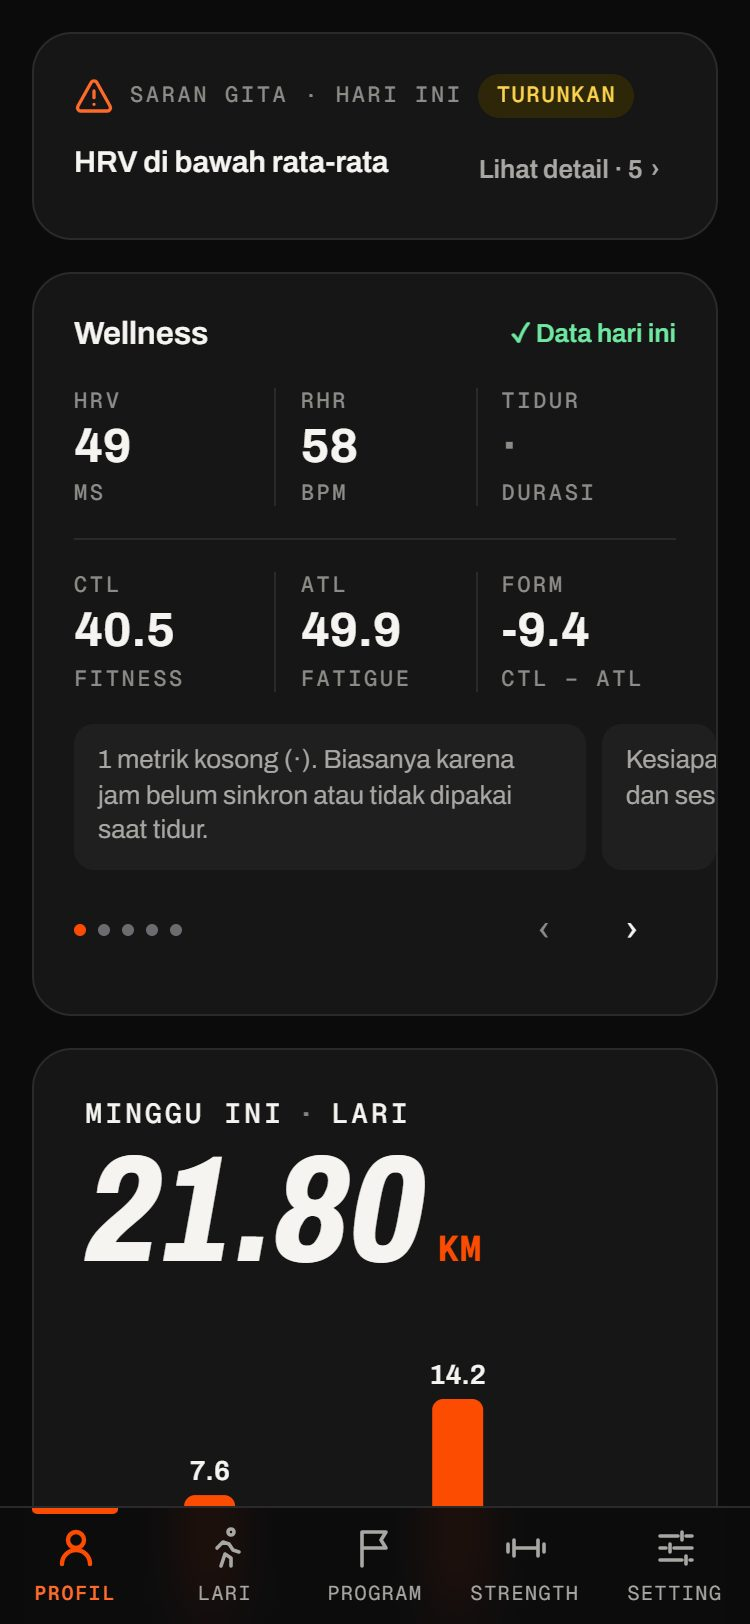
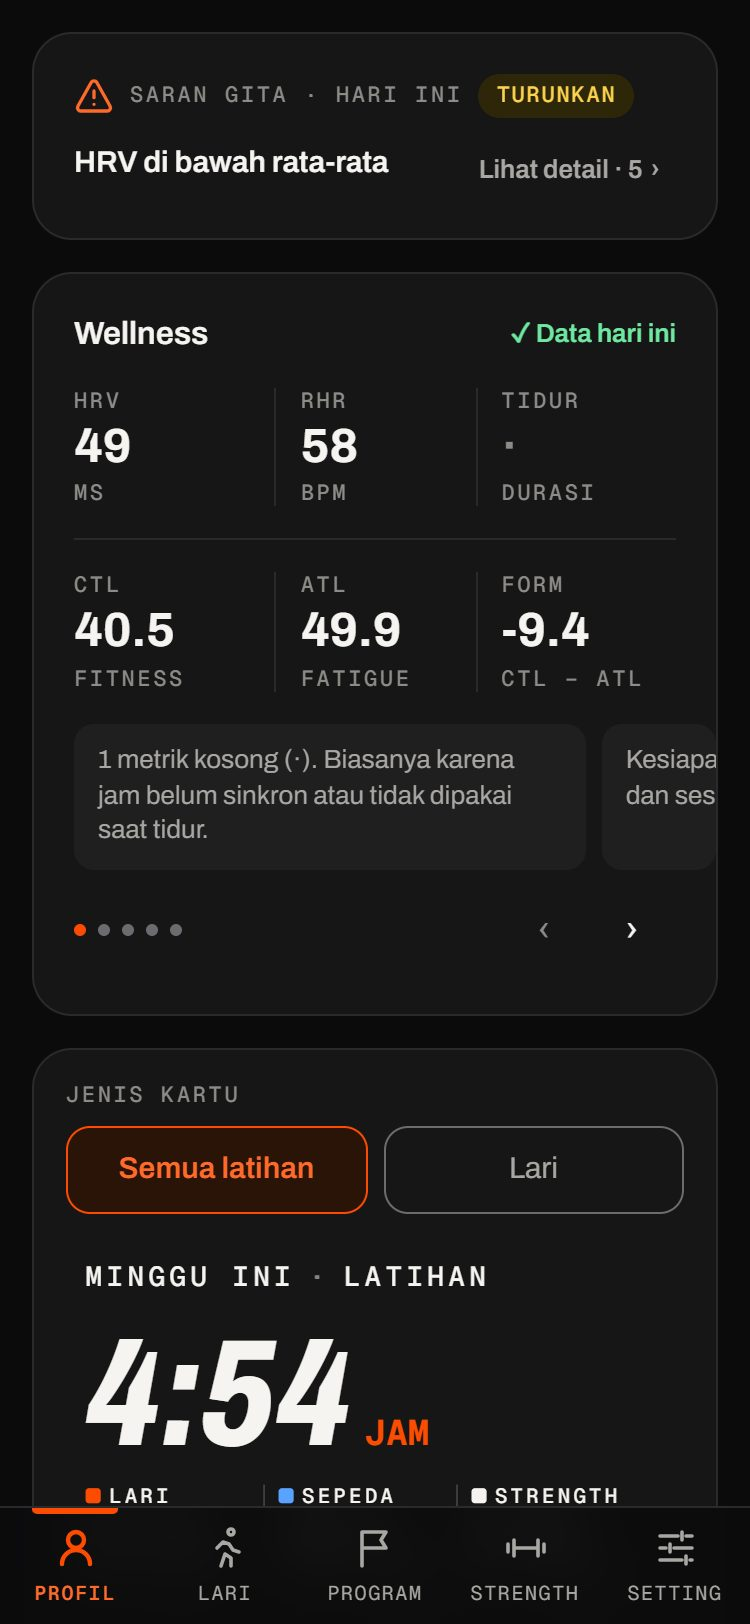
docs: release 1.3.0
Kartu "Minggu ini · latihan": PRD, DESIGN-SYSTEM (warna olahraga, arsir = indoor),
ARCHITECTURE, GUIDE, CHANGELOG, versi 1.3.0, screenshot dan video pratinjau dari Demo Mode.

diff --git a/lib/app-info.ts b/lib/app-info.ts
@@ -12,7 +12,7 @@ import { LIB_MISC } from "@/lib/i18n/messages/lib-misc";
 import { UPSTREAM_REPO } from "./env-schema";
 
 /** Tanggal rilis versi terpasang (YYYY-MM-DD). Naik bersama `version` di package.json; dijaga test terhadap CHANGELOG. */
-export const RELEASE_DATE = "2026-11-14";
+export const RELEASE_DATE = "2026-11-20";
 
 const SEMVER_RE = /^v?(\d+)\.(\d+)\.(\d+)(?:-([0-9A-Za-z.-]+))?$/;
 

diff --git a/docs/PRD.md b/docs/PRD.md
@@ -5,11 +5,11 @@
 
 | | |
 | --- | --- |
-| **Versi saat ini** | 1.2.0 (2026-11-14) · Bahasa Indonesia / English |
+| **Versi saat ini** | 1.3.0 (2026-11-20) · Kartu "Minggu ini · latihan" |
 | **Status** | Dipakai harian oleh pemilik (single user), live di Vercel |
 | **Deploy** | Vercel milik pemilik, dilindungi Deployment Protection (alamat sengaja tidak dicantumkan karena berisi data kesehatan) |
 | **Repo** | https://github.com/khaliladha11/hybrid-athlete-dashboard |
-| **Kualitas** | 89 file test, 986 unit test lolos · 70 test e2e Playwright (43 mobile gelap, 25 desktop terang, 2 sandi) · build produksi lolos · CI GitHub Actions di setiap push & PR (actionlint, unit, audit, bundle, e2e, Lighthouse) |
+| **Kualitas** | 91 file test, 1014 unit test lolos · 70 test e2e Playwright (43 mobile gelap, 25 desktop terang, 2 sandi) · build produksi lolos · CI GitHub Actions di setiap push & PR (actionlint, unit, audit, bundle, e2e, Lighthouse) |
 | **Dokumen terkait** | [README](../README.md) · [Panduan](GUIDE.md) · [Keterbatasan](LIMITATIONS.md) · [Dasar ilmiah](REFERENCES.md) · [Kredit](CREDITS.md) · [CHANGELOG](../CHANGELOG.md) · [TRAINING-LOGIC](TRAINING-LOGIC.md) · [ARCHITECTURE](ARCHITECTURE.md) · [DESIGN-SYSTEM](DESIGN-SYSTEM.md) · [Logo](brand/LOGO.md) · [ONBOARDING](ONBOARDING.md) · [SYNC](SYNC.md) · [Spesifikasi 0.13: PROGRAM-HIDUP](PROGRAM-HIDUP.md) · [STRENGTH-HIDUP](STRENGTH-HIDUP.md) · [Spesifikasi 0.15: INSIGHT](INSIGHT.md) · [Rencana 0.16 sampai 1.0: RELEASE-1.0](RELEASE-1.0.md) · [Audit media gerakan](movement-media-audit.md) · [Usulan gerakan 0.9](movement-library-proposal.md) · [NOTICE](../NOTICE.md) |
 
 **Legenda status:** ✅ Selesai · 🟡 Sebagian / ada keterbatasan · ⬜ Belum dibuat · 💡 Ide. Sejak 1.0.0 semua butir ⬜ adalah kandidat **Setelah 1.0** (§7) dan tidak masuk sebelum feature freeze dibuka.
@@ -137,7 +137,9 @@ Aturan ini berlaku untuk setiap fitur baru. Semuanya sudah diuji otomatis.
 | Wellness hari ini (HRV, resting HR, tidur, CTL/ATL/Form) | ✅ | Status ✓ data hari ini / ✕ data lama. Sejak 0.14.3 sinyal yang tidak dikirim jam dalam 14 hari tidak ditampilkan. Sejak 1.1.0 teks info di bawah angka (metrik kosong, dasar kesiapan, ambang) jadi carousel kartu kecil (scroll-snap, tombol ‹ ›, "1 dari 4"). **HRV:** jam pemilik (integrasi Huawei) tidak mengirim HRV ke intervals.icu, jadi HRV tidak tampil; mapping field `hrv`/`hrvSDNN` sudah benar (§6 #14) |
 | Ringkasan 7 hari (km, pace, HR, long run, load, sesi) | ✅ | Plus distribusi 80/20 & tren km. Sejak 1.1.0 di Tren bagian "Minggu ini" (`/insight#minggu-ini`), bersama beban ST 7 hari dan Week Ledger |
 | Kartu "Minggu ini · lari" di Profil | ✅ | 1.1.0 · `lib/week-run-card.ts`: total km minggu kalender WIB (mentah, 2 desimal), 7 bar Senin sampai Minggu (angka 1 desimal, hari kosong titik), footer jumlah lari & tanggal. Ketuk → Tren. Tombol Generate di Profil dihapus (navigasi bawah tetap) |
-| Bagikan kartu minggu ini sebagai PNG transparan | ✅ | 1.1.0 · `lib/share-card.ts`: story 1080×1920 / feed 1080×1350, teks terang (bawaan) atau gelap, bahasa kartu EN / ID (sejak 1.2.0 bawaan mengikuti bahasa app), watermark opsional. SVG dari layout yang sama dengan kartu Profil, font Archivo & Geist Mono disematkan, digambar ke canvas tanpa library. Web Share API dengan file bila didukung, selalu ada Unduh PNG. Tanpa nama dan alamat deploy |
+| Kartu "Minggu ini · latihan" di Profil (bawaan), kartu lari tetap sebagai pilihan | ✅ | 1.3.0 · `lib/weekly/training-week.ts` + `training-card.ts`: total jam semua latihan minggu kalender WIB, maksimal 3 kolom (lari, sepeda, strength; keempat olahraga ada → kolom ketiga "Lainnya" gabungan), bar bertumpuk per hari (lari oranye, sepeda biru, lainnya netral, strength garis tepi), indoor = arsir (trainer, Virtual*, treadmill; strength selalu indoor) dan ditulis di aria & "Lihat tabel". Dedupe memakai aturan yang ada (Huawei/Strava, ST lokal vs WeightTraining). Pilihan "Semua latihan / Lari" di Profil dan sheet bagikan, disimpan di perangkat |
+| Waktu per olahraga di Tren | ✅ | 1.3.0 · bar bertumpuk per minggu (6/12 minggu mengikuti rentang), ringkasan minggu ini vs rata-rata, "Lihat tabel" |
+| Bagikan kartu minggu ini sebagai PNG transparan | ✅ | 1.1.0 · `lib/share-card.ts`: story 1080×1920 / feed 1080×1350, teks terang (bawaan) atau gelap, bahasa kartu EN / ID (sejak 1.2.0 bawaan mengikuti bahasa app), watermark opsional; sejak 1.3.0 jenis kartu Semua latihan / Lari. SVG dari layout yang sama dengan kartu Profil, font Archivo & Geist Mono disematkan, digambar ke canvas tanpa library. Web Share API dengan file bila didukung, selalu ada Unduh PNG. Tanpa nama dan alamat deploy |
 | Kalender aktivitas bulanan + detail per tanggal | ✅ | Tanpa program: bulan ini & bulan lalu. Dengan program tersimpan (0.13.0, [PROGRAM-HIDUP.md](PROGRAM-HIDUP.md) #5–#6): dari awal program sampai bulan lomba, aktivitas selesai oranye, rencana bercincin warna intensitas, terlewat & dilewati ditandai |
 | Detail aktivitas: split per km + interval / lap | ✅ | `/activity/[id]`. Split dari stream intervals.icu: jarak jam, atau GPS bila jarak hanya dibagi rata / tidak konsisten. Data bertangga diratakan, lonjakan & reset dibuang, hasil divalidasi terhadap ringkasan (0.10.2). Interval hanya tampil bila > 1 |
 | Split cocok dengan Strava | 🟡 | Contoh lari 4,4 km: total moving time sama (44:00), HR per km ±1 bpm, pace per km −9 sampai +7 detik (Strava menghitung ulang jarak 4,42 km, jam 4,44 km) |
@@ -398,6 +400,8 @@ Ukuran: **S** ≈ < 1 hari · **M** ≈ 1–3 hari · **L** ≈ > 3 hari.
 | ~~**0.17 Terhubung & mudah dipasang**~~ ✅ ([RELEASE-1.0](RELEASE-1.0.md)) | Kirim workout lari (generator dan program) ke kalender intervals.icu sebagai workout terstruktur, diteruskan ke jam (ST tetap di aplikasi, Copy Set tetap); zona HR dan RPE di Setting; rapikan copy (em dash di `lib/`, istilah "Gita"); pemasangan mudah (Deploy to Vercel, INSTALL-WITH-AI.md, AGENTS.md, Vercel CLI) | Workout sampai ke jam tanpa menyalin, dan orang lain bisa memasang sendiri |
 | ~~**1.0 Rilis**~~ ✅ ([RELEASE-1.0](RELEASE-1.0.md)) | Jalur pembaruan untuk fork (GitHub Action membuka PR dari upstream, migrasi aman, langkah manual ditandai); panduan pengguna lengkap dan bantuan di aplikasi; feature freeze, semua dokumen diselaraskan, tag versi | Stabil dan mudah diperbarui tanpa edit kode |
 
+> 2026-11-20: **1.3.0 dirilis** atas permintaan pemilik: kartu mingguan multi-aktivitas "Minggu ini · latihan" (lari, sepeda, strength, lainnya; indoor diarsir) di Profil dan ekspor PNG, kartu lari tetap sebagai pilihan, grafik waktu per olahraga di Tren.
+>
 > 2026-11-14: **1.1.0 dirilis** atas permintaan pemilik (rilis minor pertama setelah feature freeze): Profil ringkas (saran Gita dilipat, carousel info Wellness, kartu "Minggu ini · lari", tanpa tombol Generate), ringkasan 7 hari & Week Ledger pindah ke Tren, dan backlog "Bagikan kartu story" dikerjakan sebagai ekspor PNG kartu mingguan.
 >
 > 2026-11-02 (2): **1.0.0 dirilis.** Feature freeze berlaku (RELEASE-1.0 R7): sesudahnya hanya perbaikan bug, keamanan, dan dokumentasi sampai rencana minor berikutnya disetujui. Audit akhir di [RELEASE-1.0 §12](RELEASE-1.0.md#12-audit-akhir-100-2026-11-02).
@@ -538,6 +542,7 @@ Disimpan sebagai riwayat; rinciannya di §4 dan CHANGELOG.
 | 1.0.0-rc.2 | 2026-11-02 | README baru, dasar ilmiah dengan label bukti, kredit, panduan pengguna & halaman Bantuan, keterbatasan, backlog setelah 1.0 |
 | **1.0.0** | 2026-11-02 | **Rilis stabil pertama.** Feature freeze. Dokumen diselaraskan dengan kode, audit akhir ([RELEASE-1.0 §12](RELEASE-1.0.md#12-audit-akhir-100-2026-11-02)), video pratinjau |
 | 1.1.0 | 2026-11-14 | Profil ringkas: saran Gita dilipat, carousel info Wellness, kartu "Minggu ini · lari", tombol Generate dihapus; ringkasan 7 hari & Week Ledger pindah ke Tren; bagikan kartu minggu ini sebagai PNG transparan (story/feed, teks terang/gelap, EN/ID) |
+| 1.3.0 | 2026-11-20 | Kartu "Minggu ini · latihan": total jam semua latihan, kolom lari/sepeda/strength, bar bertumpuk per olahraga dengan arsir indoor, pilihan kartu lari, ekspor PNG story/feed; penanda indoor dari intervals.icu; waktu per olahraga di Tren |
 | 1.2.0 | 2026-11-14 | Bahasa Indonesia / English: tombol ganti bahasa di AppBar, semua teks app (UI, Gita, generator, program, insight, konten keselamatan) dalam dua bahasa, kamus bertipe tanpa dependensi, test paritas logika dan kecocokan angka konten keselamatan, e2e & axe di kedua bahasa |
 | 0.15.2 | 2026-10-28 | Insight selesai, tubuh & saran: check-in harian (hanya menurunkan, tanpa berantai), ambang pribadi LTHR/HRV/resting HR, ringkasan bulanan, bagian Tubuh, sinkron `checkins` & cadangan v6 |
 | 0.15.1 | 2026-10-28 | Insight tahap 2, tren kekuatan: rincian set di mode latihan, volume ST per pola & session-RPE, heatmap otot (jarang dilatih, ketuk otot), tren PR dengan tahap, kepatuhan mingguan, kalender heatmap |

diff --git a/docs/DESIGN-SYSTEM.md b/docs/DESIGN-SYSTEM.md
@@ -10,6 +10,7 @@ Rasanya seperti **tag lari yang ditempel di layar**: permukaan charcoal, satu or
 
 - **Dark-first.** Mode gelap adalah wajah utama (sama dengan kartu story). Mode terang tetap ada dengan token yang setara (PRD 4.7: tema Sistem/Terang/Gelap).
 - **Satu aksen:** oranye `#FC4C02`. Hijau/kuning/merah tetap ada, tapi hanya sebagai **warna data** (intensitas & status, PRD 4.7). Warna data tidak pernah dipakai untuk chrome (tombol, nav, judul).
+- **Warna olahraga (1.3.0, data):** lari = oranye `--brand`, sepeda = biru `--info`, strength = tinta (garis tepi berarsir), lainnya (jalan, hike, renang, yoga, …) = tinta redup 50% (`--track` di grafik Tren). Hanya untuk data latihan, tidak untuk chrome.
 - **Bentuk data adalah tanda tangan.** Elemen yang paling diingat adalah *Segment Skyline* (bar segmen) dan *Week Ledger* (tabel minggu ini).
 
 Dial taste-skill untuk app ini: `DESIGN_VARIANCE 4 · MOTION_INTENSITY 3 · VISUAL_DENSITY 6`. Dashboard sebenarnya di luar cakupan taste-skill. Karena itu yang dipakai terutama protokol `redesign-existing-projects` (Scan, Diagnose, Fix) plus aturan warna, tipografi, dan copy dari `design-taste-frontend`.
@@ -39,7 +40,7 @@ Nama token **tetap sama dengan 0.9** supaya semua kelas Tailwind yang ada (`bg-s
 | `--success` / `-ink` / `-soft` | `#4ADE80` / `#6EE7A0` / `#10291A` | `#16A34A` / `#15803D` / `#E8F7EE` | intensitas Easy, status OK |
 | `--warning` / `-ink` / `-soft` | `#FACC15` / `#FCD34D` / `#2E2608` | `#B98D06` / `#A16207` / `#FDF6D8` | Moderate |
 | `--danger` / `-ink` / `-soft` | `#F87171` / `#FCA5A5` / `#331414` | `#DC2626` / `#B91C1C` / `#FDECEC` | High, status gagal |
-| `--info` / `-soft` | `#5AA2FF` / `#0F2440` | `#0060D0` / `#EAF2FD` | catatan/cue |
+| `--info` / `-soft` | `#5AA2FF` / `#0F2440` | `#0060D0` / `#EAF2FD` | catatan/cue; sejak 1.3.0 juga warna data **sepeda** |
 
 **Kontras (sudah dihitung, WCAG):** ink di surface gelap 16.5:1 · muted 7.5:1 · faint 5.3:1 · brand-ink gelap 6.3:1 · brand-ink terang di putih 5.2:1 · faint terang di putih 5.4:1.
 
@@ -134,15 +135,22 @@ Grafik bar SVG tanpa library. **Lebar bar ∝ durasi, tinggi bar ∝ kecepatan.*
 - Data dari aktivitas minggu kalender (sudah dihitung di `summarizeLast7Days().calendarWeek`; tambah rincian per hari di komponen).
 - Total adalah jumlah jarak mentah. Angka per hari dibulatkan 1 desimal, jadi jumlahnya bisa beda 0.01 dari total. Itu wajar; jangan "dibetulkan".
 
-### Kartu Minggu ini · lari (1.1.0, `components/profile/WeekRunCard.tsx`)
+### Kartu Minggu ini · latihan (1.3.0, `components/profile/WeekCard.tsx`)
+- Bawaan di Profil; Segmented **Semua latihan / Lari** di atas kartu dan di sheet bagikan (pilihan disimpan bersama opsi bagikan). Kartu lari 1.1.0 tetap sama.
+- Label mono `MINGGU INI · LATIHAN`, total jam Display italic condensed `5:52` + `JAM`/`HRS` mono oranye. Tiga kolom ringkasan dipisah hairline vertikal: kotak warna kecil + label mono, nilai sans besar (`14.6` + `KM` mono kecil, atau `1:55` + `J`/`H`), sub-baris mono redup (`3x · 2:22`, `+ 45' INDOOR`, `3x · INDOOR`).
+- Bar per hari: segmen bertumpuk (dari bawah lari, sepeda, lainnya, strength; outdoor di bawah indoor), radius 14, celah 8, tinggi minimum 22, skala ke hari terpanjang (maksimal 330) sehingga label menit (`45'`, `150'`) tidak menabrak kolom. Hari kosong = titik faint.
+- **Arsir = indoor:** garis diagonal 45° terang di atas warna olahraga (trainer, Virtual*, treadmill); strength selalu garis tepi tinta berarsir. Arsir tidak pernah satu-satunya penanda: kata "indoor" ada di `aria-label` dan di "Lihat tabel" (Hari, Olahraga, Menit, Tempat).
+- Layout di `lib/weekly/training-card.ts` (koordinat 1080×1920, blok y 400 sampai 1580) dipakai kartu Profil (token tema, pola arsir per kartu) dan ekspor PNG. Feed memusatkan blok ini di 1080×1350.
+
+### Kartu Minggu ini · lari (1.1.0, pilihan "Lari" sejak 1.3.0)
 - Gaya kartu story: label mono `MINGGU INI · LARI` (`·` redup), total km Display italic condensed 2 desimal + satuan `KM` mono oranye sejajar baseline, 7 bar oranye Senin sampai Minggu (lebar 74, radius 16, tinggi ∝ km sampai 300, minimum 32) dengan angka 1 desimal di atasnya, hari kosong = titik kecil faint di baseline, huruf hari mono, garis rambut, footer mono `3 LARI · 9 SAMPAI 15 NOV`.
 - Satu layout di `lib/week-run-card.ts` (koordinat 1080×1920, blok y 560 sampai 1480, margin kiri 120, tepi kanan grafik 960) dipakai kartu Profil (peran warna → token tema) dan ekspor PNG (warna tetap). Angka total adalah satu-satunya Display di Profil.
 - Aturan angka sama dengan Week Ledger. Selesai = oranye, jadi bar memakai `--brand`.
 - Seluruh kartu adalah tautan ke Tren; tombol Bagikan di luar tautan.
 
 ### Ekspor bagikan (1.1.0, `components/share/ShareWeekSheet.tsx`)
-- Bottom sheet `<dialog>` (gaya `.movement-sheet`): pratinjau di atas papan catur (`.checkerboard`) supaya transparansi terlihat, Segmented Format (Story 9:16 / Feed 4:5), Warna teks (Teks terang / Teks gelap), Bahasa kartu (EN / ID), Switch watermark, tombol **Bagikan** (hanya bila Web Share API menerima file) dan **Unduh PNG**.
-- PNG tanpa latar. Teks terang `#F5F4F1` dengan bayangan lembut `0 4px 16px rgba(0,0,0,.35)` pada teks dan bar; teks gelap `#141414` dengan bayangan terang. Oranye selalu `#FC4C02`. Feed memakai blok yang sama di tengah 1080×1350.
+- Bottom sheet `<dialog>` (gaya `.movement-sheet`): pratinjau di atas papan catur (`.checkerboard`) supaya transparansi terlihat, Segmented Jenis kartu (Semua latihan / Lari, 1.3.0), Format (Story 9:16 / Feed 4:5), Warna teks (Teks terang / Teks gelap), Bahasa kartu (EN / ID), Switch watermark, tombol **Bagikan** (hanya bila Web Share API menerima file) dan **Unduh PNG**.
+- PNG tanpa latar. Teks terang `#F5F4F1` dengan bayangan lembut `0 4px 16px rgba(0,0,0,.35)` pada teks dan bar; teks gelap `#141414` dengan bayangan terang. Oranye selalu `#FC4C02`; biru sepeda `#5AA2FF` untuk teks terang dan `#0060D0` untuk teks gelap. Feed memakai blok yang sama di tengah 1080×1350.
 - Font Archivo & Geist Mono disematkan ke SVG sebagai data URL supaya PNG sama dengan layar. Tanpa nama orang dan tanpa alamat deploy.
 
 ### InfoCarousel (1.1.0, `components/ui/InfoCarousel.tsx`)

diff --git a/docs/GUIDE.md b/docs/GUIDE.md
@@ -22,15 +22,23 @@ Kartu **Saran hari ini** di Profil (dan strip saran di Generator Lari) menyebut 
 
 ### Kartu minggu ini & bagikan
 
-Profil menampilkan kartu **Minggu ini · lari** (1.1.0): total km minggu kalender Senin sampai Minggu, bar per hari, dan jumlah lari. Total adalah jumlah jarak mentah, sedangkan angka per hari dibulatkan satu desimal, jadi jumlahnya bisa beda 0.01. Ketuk kartu untuk detail di **Tren › Minggu ini**: pace, HR, long run, load, pembagian 80/20, perubahan km, beban ST, dan Week Ledger.
+Profil menampilkan kartu **Minggu ini · latihan** (1.3.0): total jam semua latihan minggu kalender Senin sampai Minggu, ringkasan lari, sepeda, dan strength, serta bar per hari yang ditumpuk per olahraga.
+
+- **Warna:** lari oranye, sepeda biru, strength garis tepi, lainnya (jalan, hike, renang, yoga) abu-abu. Bila keempatnya ada, kolom ketiga menjadi **Lainnya** gabungan.
+- **Arsir = indoor:** trainer, treadmill, dan Zwift dkk. diarsir; strength selalu indoor. "+ 45' INDOOR" berarti ada sesi indoor tanpa jarak.
+- **Lihat tabel** menampilkan rincian per hari (olahraga, menit, indoor/outdoor).
+- Sesi strength dari mode latihan dan aktivitas WeightTraining di intervals.icu yang sama dihitung sekali.
+
+Pilih **Lari** di atas kartu untuk kartu **Minggu ini · lari** (1.1.0): total km, bar per hari, dan jumlah lari. Total adalah jumlah jarak mentah, sedangkan angka per hari dibulatkan satu desimal, jadi jumlahnya bisa beda 0.01. Ketuk kartu untuk detail di **Tren › Minggu ini**: pace, HR, long run, load, pembagian 80/20, perubahan km, beban ST, dan Week Ledger. Tren juga punya grafik **Waktu per olahraga** per minggu.
 
 Tombol **Bagikan** membuat PNG transparan untuk ditempel di atas foto:
 
+- **Jenis kartu:** Semua latihan atau Lari.
 - **Format:** Story 1080×1920 atau Feed 1080×1350.
 - **Warna teks:** Teks terang (untuk foto gelap, dengan bayangan lembut) atau Teks gelap. Oranye selalu sama.
 - **Bahasa kartu:** mengikuti bahasa app (1.2.0), bisa diganti EN atau ID. **Watermark** "HYBRID ATHLETE" bisa dimatikan.
 - Di HP yang mendukung, **Bagikan** langsung membuka menu berbagi (mis. Instagram Story). **Unduh PNG** selalu tersedia.
-- Gambar hanya berisi km, jumlah lari, dan tanggal minggu itu. Tanpa nama dan tanpa alamat aplikasimu.
+- Gambar hanya berisi waktu, km, jumlah sesi, dan tanggal minggu itu. Tanpa nama dan tanpa alamat aplikasimu.
 
 ### Program mingguan
 
@@ -269,7 +277,7 @@ Detail aturan dan dasar ilmiahnya ada di **[docs/TRAINING-LOGIC.md](TRAINING-LOG
 
 <table>
   <tr>
-    <td><img src="screenshots/01-profile.jpg" width="220" alt="Profil: saran Gita dilipat, Wellness dengan carousel info, kartu Minggu ini · lari"></td>
+    <td><img src="screenshots/01-profile.jpg" width="220" alt="Profil: saran Gita dilipat, Wellness dengan carousel info"></td>
     <td><img src="screenshots/03-run-generator.jpg" width="220" alt="Generator lari dengan strip saran dan kesulitan berwarna"></td>
     <td><img src="screenshots/04-run-workout.jpg" width="220" alt="Kartu tag Norwegian 4x4 dengan Segment Skyline rencana"></td>
   </tr>
@@ -360,12 +368,22 @@ Detail aturan dan dasar ilmiahnya ada di **[docs/TRAINING-LOGIC.md](TRAINING-LOG
   </tr>
   <tr>
     <td><img src="screenshots/28-insight-body.jpg" width="220" alt="Mode terang: tren check-in dan status ambang pribadi di Insight"></td>
-    <td><img src="screenshots/29-share-week.jpg" width="220" alt="Sheet Bagikan kartu minggu ini: pratinjau PNG transparan, format, warna teks, bahasa kartu, watermark"></td>
-    <td></td>
+    <td><img src="screenshots/29-share-week.jpg" width="220" alt="Sheet Bagikan kartu minggu ini: jenis kartu, pratinjau PNG transparan, format, warna teks, bahasa kartu, watermark"></td>
+    <td><img src="screenshots/30-training-week.jpg" width="220" alt="Kartu Minggu ini · latihan: total jam, kolom lari, sepeda, strength, bar bertumpuk per hari dengan arsir indoor"></td>
   </tr>
   <tr>
     <td align="center"><sub>Tubuh & ambang</sub></td>
     <td align="center"><sub>Bagikan kartu minggu ini</sub></td>
+    <td align="center"><sub>Minggu ini · latihan</sub></td>
+  </tr>
+  <tr>
+    <td><img src="screenshots/31-insight-sport-time.jpg" width="220" alt="Tren: waktu per olahraga per minggu, bar bertumpuk lari, sepeda, lainnya, strength"></td>
+    <td></td>
+    <td></td>
+  </tr>
+  <tr>
+    <td align="center"><sub>Waktu per olahraga</sub></td>
+    <td></td>
     <td></td>
   </tr>
 </table>

diff --git a/docs/ARCHITECTURE.md b/docs/ARCHITECTURE.md
@@ -121,8 +121,10 @@ Pelanggaran akan melempar `WorkoutValidationError`. Hal yang sama berlaku untuk 
 | `components/charts/chart-scale.ts`, `LineChart.tsx`, `BarChart.tsx`, `ChartCard.tsx` | Skala & tata letak murni; grafik garis & batang bertumpuk SVG; kerangka ringkasan + "Lihat tabel" (0.15.0) | Murni / client |
 | `app/insight/page.tsx`, `components/insight/InsightView.tsx` | Rute `/insight` (tanpa tab baru): data intervals.icu dari server, hasil lomba/program/blok dari perangkat, rentang 6/12 minggu dipotong di client | Server + client |
 | `lib/week-ledger.ts` | Baris Week Ledger per hari: km lari + ST per sesi setelah dedupe. Sejak 1.1.0 tampil di Tren (`/insight#minggu-ini`) | Murni |
-| `lib/week-run-card.ts`, `components/profile/WeekRunCard.tsx` | Kartu "Minggu ini · lari" (1.1.0): model minggu kalender WIB, teks EN/ID, dan layout elemen 1080×1920 yang dipakai kartu Profil (token tema) dan ekspor PNG | Murni + server |
-| `lib/share-card.ts`, `lib/share-export.ts`, `components/share/ShareWeekSheet.tsx` | Ekspor kartu mingguan (1.1.0): ukuran story/feed, opsi, nama file, string SVG transparan (murni); font next/font disematkan sebagai data URL lalu SVG digambar ke canvas → PNG (browser); sheet dengan Web Share API / Unduh PNG | Murni + client |
+| `lib/weekly/training-week.ts` | Minggu latihan multi-aktivitas (1.3.0): sesi per olahraga (run, ride, strength, other) setelah dedupe (`dedupeActivities` di server, `dedupeStSessions` untuk ST lokal vs WeightTraining), indoor dari `Activity.indoor`, segmen bertumpuk per hari, total, pilihan kolom ringkasan (maks 3, gabungan "other"), `trainingWeeks` untuk grafik Tren | Murni |
+| `lib/weekly/training-card.ts`, `components/profile/WeekCard.tsx` | Kartu "Minggu ini · latihan" (1.3.0): teks kolom & aria (dict `TRAINING_CARD`), tabel per hari, layout 1080×1920 dengan arsir indoor; kartu Profil (client, karena sesi ST ada di perangkat) dengan pilihan Semua latihan / Lari | Murni + client |
+| `lib/week-run-card.ts` | Kartu "Minggu ini · lari" (1.1.0, sejak 1.3.0 pilihan "Lari"): model minggu kalender WIB, teks EN/ID, dan layout elemen 1080×1920; tipe `CardElement` dipakai bersama kartu latihan | Murni |
+| `lib/share-card.ts`, `lib/share-export.ts`, `components/share/ShareWeekSheet.tsx` | Ekspor kartu mingguan (1.1.0; 1.3.0 jenis kartu latihan/lari, pola arsir, biru sepeda per tinta): ukuran story/feed, opsi, nama file, string SVG transparan (murni); font next/font disematkan sebagai data URL lalu SVG digambar ke canvas → PNG (browser); sheet dengan Web Share API / Unduh PNG | Murni + client |
 | `lib/coach-collapse.ts`, `lib/carousel.ts`, `components/ui/InfoCarousel.tsx` | Kartu Saran Gita yang bisa dilipat (aturan per hari & buka otomatis) dan carousel info scroll-snap untuk Wellness (1.1.0) | Murni + client |
 | `lib/movements/muscle-regions.ts` | Nama otot kurasi → region SVG depan/belakang, otot tanpa region & gerakan teks saja (dengan alasan), ringkasan otot sesi | Murni |
 | `lib/buy-reminder.ts` | Pengingat beli plat per area (lower, upper push, upper pull): syarat 80% mentok di batas alat selama 2 sesi, plat yang membuka progresi terbanyak, tanda tangan untuk tutup/muncul lagi | Server & client (murni) |

diff --git a/CHANGELOG.md b/CHANGELOG.md
@@ -4,6 +4,30 @@ Semua perubahan penting di project ini. Format mengikuti [Keep a Changelog](http
 
 ## [Unreleased]
 
+## [1.3.0] · 2026-11-20 · Minggu ini · latihan
+
+Atas permintaan pemilik: kartu mingguan di Profil kini merangkum semua latihan, bukan hanya lari.
+
+### Ditambahkan
+- **Kartu "Minggu ini · latihan"** di Profil (bawaan), juga sebagai PNG transparan ([GUIDE](docs/GUIDE.md#kartu-minggu-ini--bagikan)):
+  - total jam semua latihan minggu kalender Senin sampai Minggu (WIB);
+  - maksimal tiga kolom: lari dan sepeda dengan km (sub-baris `3x · 2:22` atau `+ 45' INDOOR`), strength dengan jam (`3x · INDOOR`); bila lari, sepeda, strength, dan lainnya semuanya ada, kolom ketiga menjadi **Lainnya** gabungan;
+  - bar per hari yang ditumpuk per olahraga: lari oranye, sepeda biru, lainnya netral, strength garis tepi; **arsir = indoor**; menit per hari di atas bar;
+  - footer `8 SESI · 16 SAMPAI 22 NOV`;
+  - "Lihat tabel" per hari dan kalimat aksesibel yang menyebut indoor dengan kata.
+- **Pilihan jenis kartu** "Semua latihan / Lari" di Profil dan di sheet bagikan. Kartu lari 1.1.0 tetap ada. Nama file `hybrid-athlete-latihan-…png` untuk kartu latihan.
+- **Waktu per olahraga** di Tren: bar bertumpuk per minggu (6/12 minggu), ringkasan minggu ini vs rata-rata, "Lihat tabel".
+- **Penanda indoor** dari intervals.icu: flag `trainer`, tipe VirtualRide/VirtualRun, dan treadmill. Tipe Treadmill kini dihitung sebagai lari.
+- Demo Mode: satu sesi sepeda outdoor dan satu sesi trainer.
+
+### Diubah
+- Strength di kartu memakai aturan dedupe yang sudah ada: sesi mode latihan dan WeightTraining intervals.icu yang cocok dihitung sekali dengan durasi sesi lokal.
+- Screenshot panduan `01-profile`, `02-weekly-summary`, `29-share-week` diperbarui, ditambah `30-training-week` dan `31-insight-sport-time`; video pratinjau README direkam ulang.
+
+### Langkah manual
+- Salinan atau fork dengan workflow pembaruan: merge pull request "Pembaruan dari upstream: v1.3.0" setelah CI hijau.
+- Tidak ada variabel lingkungan baru dan tidak ada migrasi data. Jenis kartu disimpan bersama opsi bagikan di perangkat (tidak disinkron); opsi lama tanpa jenis kartu dibaca sebagai "Semua latihan".
+
 ## [1.2.0] · 2026-11-14 · Bahasa Indonesia / English
 
 Atas permintaan pemilik: seluruh app tersedia dalam bahasa Inggris, tanpa mengubah logika latihan.

diff --git a/README.md b/README.md
@@ -17,7 +17,7 @@
 
 <!-- Pratinjau dibuat ulang dengan `npm run media:video` (marketing/README.md). -->
 <p align="center">
-  <img src="docs/media/preview-readme.webp" width="300" alt="Pratinjau animasi: saran harian Gita dan kartu minggu ini di Profil, generator lari lalu Kirim ke jam, mode latihan strength dengan peta otot, program menuju Hari H, dan heatmap otot di Insight">
+  <img src="docs/media/preview-readme.webp" width="300" alt="Pratinjau animasi: saran harian Gita dan kartu Minggu ini · latihan di Profil, generator lari lalu Kirim ke jam, mode latihan strength dengan peta otot, program menuju Hari H, dan heatmap otot di Insight">
 </p>
 
 <p align="center"><sub>Direkam dari Demo Mode (data fiktif). Galeri lengkap di <a href="docs/GUIDE.md#galeri-screenshot">Panduan</a>.</sub></p>
